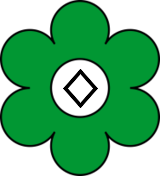
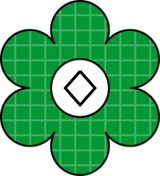
feat(gardensofuranus): Trapezoid and Rhombus boards, flower patterns, lift-and-name gardeners, detailed power help
- Spots of both extra boards detected from the official art; cropped, decoration-free board images; per-board lattice geometry
- Server cell lists, generic edge detection, board option restored
- Flowers get subtle per-colour patterns in addition to the centre symbol (shapes/patterns preference)
- Tap or hover a gardener to lift it and show its player's name
- Powers rule icon lists every Martian's power

Changed region(s): [[0.0, 0.0, 1.0, 0.9943], [0.375, 0.3977, 0.625, 0.625]]

diff --git a/games/gardensofuranus/bga/modules/js/Game.js b/games/gardensofuranus/bga/modules/js/Game.js
@@ -30,6 +30,14 @@ class SoundController {
 
 const sounds = new SoundController();
 
+// Board art geometry (base units; the art files are drawn at 2x). Every board is a triangular lattice:
+// the spot (q, r) is at (ox, oy) + q * vq + r * vr.
+const BOARDS = {
+    1: { w: 560, h: 600, img: 'board_hex.jpg', ox: 280, oy: 300, vq: [58, 33.5], vr: [0, 67] },
+    2: { w: 443.5, h: 830, img: 'board_trapezoid.jpg', ox: 48.0, oy: 582.0, vq: [57.79, 33.36], vr: [0.0, 66.73] },
+    3: { w: 539.5, h: 855.5, img: 'board_rhombus.jpg', ox: 35.8, oy: 427.8, vq: [66.73, 0.0], vr: [33.36, 57.79] },
+};
+
 export class DraftCard {
     constructor(game, bga) {
         this.game = game;
@@ -166,7 +174,15 @@ export class Game {
             penalty: { icon: `<span class="gou_ico_minus"><img src="${this.imgUrl('flower_red.png')}" alt=""><b>-</b></span>`, title: _('Unused flowers'), text: _('At the end, each player scores the mission cards left in hand, then loses points for unused flowers: 1 = -1, 2 = -3, 3 = -6, 4 = -10, 5 = -15, 6 = -21, 7 = -28, 8 = -36, 9 = -45, 10 = -55, 11 = -66, 12 = -78.') },
         };
         if (parseInt(this.gamedatas?.special_powers) === 2) {
-            rules.powers = { icon: `<img src="${this.imgUrl('robby.png')}" alt="">`, title: _('Martian powers'), text: _('Once per game your Martian can use its power. Ali swaps two flowers on a line with him. Bot removes a tree. Marty teleports to any spot without a tree or Martian. Robby swaps places with any other Martian. These four are used before your move or mission card. Bob can plant on a spot that already has a flower and replaces it.') };
+            rules.powers = { icon: `<img src="${this.imgUrl('robby.png')}" alt="">`, title: _('Martian powers'), text: [
+                _('Once per game your Martian can use its power:'),
+                `${_('Ali')} - ${_('Flower swap')}: ${this.powerHelp('ali')}`,
+                `${_('Bot')} - ${_('Nuke a tree')}: ${this.powerHelp('bot')}`,
+                `${_('Marty')} - ${_('Teleport')}: ${this.powerHelp('marty')}`,
+                `${_('Robby')} - ${_('Swap Martians')}: ${this.powerHelp('robby')}`,
+                `${_('Bob')} - ${_('Replace flower')}: ${this.powerHelp('bob')}`,
+                _('Ali, Bot, Marty and Robby use their power before moving or scoring a card; Bob\'s power is part of his move.'),
+            ].join('<br>') };
         }
         return rules;
     }
@@ -223,10 +239,11 @@ export class Game {
 
         const rules = this.getRuleCards();
         const buttons = Object.entries(rules).map(([key, r]) =>
-            `<button type="button" class="gou_rule_btn" id="gou_rule_${key}" data-rule="${key}" aria-label="${r.title}" title="${r.title}: ${r.text.replace(/"/g, '&quot;')}">${r.icon}</button>`
+            `<button type="button" class="gou_rule_btn" id="gou_rule_${key}" data-rule="${key}" aria-label="${r.title}" title="${r.title}: ${r.text.replace(/<br\s*\/?>/g, ' ').replace(/"/g, '&quot;')}">${r.icon}</button>`
         ).join('');
 
         const boardType = parseInt(this.gamedatas?.board_type) || 1;
+        const boardCfg = this.getBoardConfig();
 
         area.innerHTML = `
             <div id="gardensofuranus_container">
@@ -236,7 +253,7 @@ export class Game {
                     <div id="gou_decks_row"></div>
                     <div id="gou_board_col">
                         <div class="game-board-scaler" id="gou_board_scaler">
-                            <div id="garden_board" class="gou_board_type_${boardType}">
+                            <div id="garden_board" class="gou_board_type_${boardType}" style="width:${boardCfg.w}px;height:${boardCfg.h}px;background-image:url('${this.imgUrl(boardCfg.img)}')">
                                 <div id="gou_cells_layer"></div>
                                 <div id="gou_gardeners_layer"></div>
                             </div>
@@ -355,38 +372,18 @@ export class Game {
         });
     }
 
+    getBoardConfig() {
+        return BOARDS[parseInt(this.gamedatas?.board_type)] || BOARDS[1];
+    }
+
     axialToPixel(q, r) {
         q = Number(q);
         r = Number(r);
-        const boardType = parseInt(this.gamedatas?.board_type) || 1;
-        if (boardType === 1) {
-            // Hexagonal board cropped to the play area (560x600), pointy-topped
-            const centerX = 280;
-            const centerY = 300;
-            const stepX = 58.0;
-            const stepY = 33.5;
-            const x = centerX + q * stepX;
-            const y = centerY + (2 * r + q) * stepY;
-            return { x: Math.round(x), y: Math.round(y) };
-        } else if (boardType === 3) {
-            // Rhombus:
-            const startX = 140;
-            const startY = 240;
-            const stepX = 52.0;
-            const stepY = 60.0;
-            const x = startX + q * stepX + r * (stepX * 0.5);
-            const y = startY + r * stepY;
-            return { x: Math.round(x), y: Math.round(y) };
-        } else {
-            // Trapezoid:
-            const startX = 150;
-            const startY = 220;
-            const stepX = 48.0;
-            const stepY = 56.0;
-            const x = startX + q * stepX;
-            const y = startY + r * stepY;
-            return { x: Math.round(x), y: Math.round(y) };
-        }
+        const b = this.getBoardConfig();
+        return {
+            x: Math.round(b.ox + q * b.vq[0] + r * b.vr[0]),
+            y: Math.round(b.oy + q * b.vq[1] + r * b.vr[1]),
+        };
     }
 
     clearActionButtons() {
@@ -599,8 +596,17 @@ export class Game {
             if (color) token.style.background = `#${color}`;
             const owner = this.gamedatas.players?.[g.player_id]?.name || '';
             token.addEventListener('click', () => {
-                if (this.powerMode) this.onSpotClicked(g.q, g.r);
+                if (this.powerMode) {
+                    this.onSpotClicked(g.q, g.r);
+                    return;
+                }
+                // Tap/click lifts the character and names its player (colour-blind friendly)
+                document.querySelectorAll('.gou_gardener_token.gou_lifted').forEach(t => t.classList.remove('gou_lifted'));
+                token.classList.add('gou_lifted');
+                clearTimeout(this.liftTimer);
+                this.liftTimer = setTimeout(() => token.classList.remove('gou_lifted'), 3500);
             });
+            token.dataset.name = `${owner} (${this.martianLabel(g.martian)})`;
             token.title = `${owner} (${this.martianLabel(g.martian)})`;
             token.setAttribute('aria-label', token.title);
             const img = document.createElement('img');
@@ -1448,9 +1454,9 @@ export class Game {
         const board = document.getElementById('garden_board');
         if (!container || !scaler || !board) return;
 
-        const boardType = parseInt(this.gamedatas?.board_type) || 1;
-        const baseWidth = boardType === 1 ? 560 : 700;
-        const baseHeight = boardType === 1 ? 600 : 1016;
+        const boardCfg = this.getBoardConfig();
+        const baseWidth = boardCfg.w;
+        const baseHeight = boardCfg.h;
         const landscape = this.isLandscapeLayout();
         const containerWidth = this.fitContainerToScreen(container) || window.innerWidth;
         let availableWidth;

diff --git a/games/gardensofuranus/bga/gardensofuranus.css b/games/gardensofuranus/bga/gardensofuranus.css
@@ -138,7 +138,7 @@
     display: flex;
     align-items: center;
     justify-content: center;
-    transition: left 0.5s ease, top 0.5s ease;
+    transition: left 0.5s ease, top 0.5s ease, transform 0.15s ease;
 }
 
 /* Your gardener while it is your turn: static double outline */
@@ -621,4 +621,49 @@
     #gou_reminders { flex-direction: column; justify-self: center; align-self: start; }
     #gou_decks_row { justify-content: flex-start; gap: 8px; max-width: none; }
     #gou_hand_area .gou_cards_container { justify-content: flex-start; gap: 8px; }
+}
+
+/* Lift a gardener and show its owner (tap on touch, hover on desktop): colour-blind friendly */
+.gou_gardener_token.gou_lifted {
+    transform: translate(-50%, -50%) translateY(-10px) scale(1.25);
+    z-index: 30;
+}
+
+.gou_gardener_token.gou_lifted::after {
+    content: attr(data-name);
+    position: absolute;
+    left: 50%;
+    bottom: calc(100% + 6px);
+    transform: translateX(-50%);
+    padding: 2px 6px;
+    border-radius: 2px;
+    background: var(--gou-ink);
+    color: #fff;
+    font-size: 13px;
+    font-weight: 700;
+    white-space: nowrap;
+    pointer-events: none;
+}
+
+@media (hover: hover) {
+    .gou_gardener_token:hover {
+        transform: translate(-50%, -50%) translateY(-10px) scale(1.25);
+        z-index: 30;
+    }
+
+    .gou_gardener_token:hover::after {
+        content: attr(data-name);
+        position: absolute;
+        left: 50%;
+        bottom: calc(100% + 6px);
+        transform: translateX(-50%);
+        padding: 2px 6px;
+        border-radius: 2px;
+        background: var(--gou-ink);
+        color: #fff;
+        font-size: 13px;
+        font-weight: 700;
+        white-space: nowrap;
+        pointer-events: none;
+    }
 }

diff --git a/games/gardensofuranus/bga/modules/php/Game.php b/games/gardensofuranus/bga/modules/php/Game.php
@@ -26,6 +26,10 @@ class Game extends \Bga\GameFramework\Table
 
     public const HEX_RADIUS = 4; // Radius 4 = 61 cells for Board 1
 
+    // Cells (axial q, r) of the Trapezoid (63 spots) and Rhombus (64 spots) boards, read from the board art
+    public const TRAPEZOID_CELLS = [[0, -5], [0, -4], [0, -3], [0, -2], [0, -1], [0, 0], [1, -6], [1, -5], [1, -4], [1, -3], [1, -2], [1, -1], [1, 0], [2, -7], [2, -6], [2, -5], [2, -4], [2, -3], [2, -2], [2, -1], [2, 0], [3, -8], [3, -7], [3, -6], [3, -5], [3, -4], [3, -3], [3, -2], [3, -1], [3, 0], [4, -9], [4, -8], [4, -7], [4, -6], [4, -5], [4, -4], [4, -3], [4, -2], [4, -1], [4, 0], [5, -10], [5, -9], [5, -8], [5, -7], [5, -6], [5, -5], [5, -4], [5, -3], [5, -2], [5, -1], [5, 0], [6, -11], [6, -10], [6, -9], [6, -8], [6, -7], [6, -6], [6, -5], [6, -4], [6, -3], [6, -2], [6, -1], [6, 0]];
+    public const RHOMBUS_CELLS = [[0, 0], [0, 1], [0, 2], [0, 3], [0, 4], [0, 5], [0, 6], [0, 7], [1, -1], [1, 0], [1, 1], [1, 2], [1, 3], [1, 4], [1, 5], [1, 6], [2, -2], [2, -1], [2, 0], [2, 1], [2, 2], [2, 3], [2, 4], [2, 5], [3, -3], [3, -2], [3, -1], [3, 0], [3, 1], [3, 2], [3, 3], [3, 4], [4, -4], [4, -3], [4, -2], [4, -1], [4, 0], [4, 1], [4, 2], [4, 3], [5, -5], [5, -4], [5, -3], [5, -2], [5, -1], [5, 0], [5, 1], [5, 2], [6, -6], [6, -5], [6, -4], [6, -3], [6, -2], [6, -1], [6, 0], [6, 1], [7, -7], [7, -6], [7, -5], [7, -4], [7, -3], [7, -2], [7, -1], [7, 0]];
+
     // 6 axial directions in 60-degree order
     public const DIRECTIONS = [
         [1, 0],
@@ -313,20 +317,10 @@ class Game extends \Bga\GameFramework\Table
                     $cells[] = ['q' => $q, 'r' => $r];
                 }
             }
-        } elseif ($boardType === 3) {
-            // Rhombus board: 8x8 = 64 spots
-            for ($q = 0; $q < 8; $q++) {
-                for ($r = 0; $r < 8; $r++) {
-                    $cells[] = ['q' => $q, 'r' => $r];
-                }
-            }
         } else {
-            // Trapezoid board: 10 rows, width 6 to 12
-            for ($r = 0; $r < 10; $r++) {
-                $width = 6 + (int) floor($r * 0.7);
-                for ($q = 0; $q < $width; $q++) {
-                    $cells[] = ['q' => $q, 'r' => $r];
-                }
+            $list = ($boardType === 3) ? self::RHOMBUS_CELLS : self::TRAPEZOID_CELLS;
+            foreach ($list as [$q, $r]) {
+                $cells[] = ['q' => $q, 'r' => $r];
             }
         }
         return $cells;
@@ -336,12 +330,9 @@ class Game extends \Bga\GameFramework\Table
     {
         if ($boardType === 1) {
             return (abs($q) === self::HEX_RADIUS || abs($r) === self::HEX_RADIUS || abs($q + $r) === self::HEX_RADIUS);
-        } elseif ($boardType === 3) {
-            return ($q === 0 || $q === 7 || $r === 0 || $r === 7);
-        } else {
-            // Trapezoid boundary: has fewer than 6 valid neighbors
-            return count($this->getValidNeighbors($q, $r)) < 6;
         }
+        // Other boards: a spot on the outer edge has fewer than 6 neighbours
+        return count($this->getValidNeighbors($q, $r)) < 6;
     }
 
     public function isValidCell(int $q, int $r): bool
